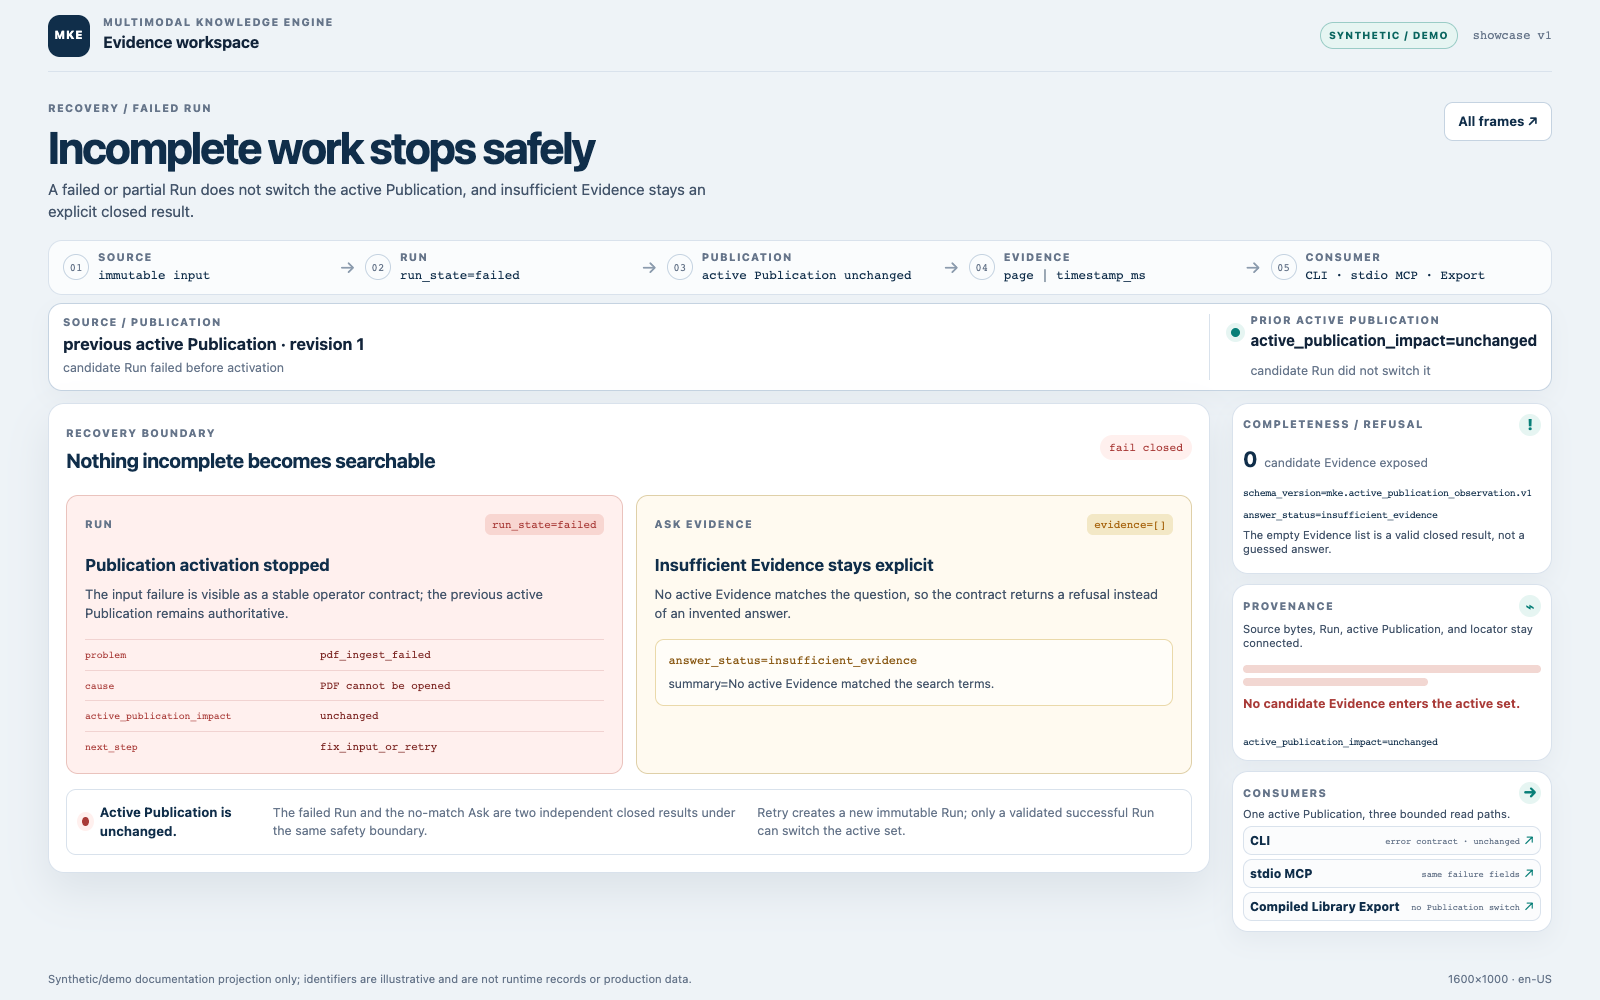
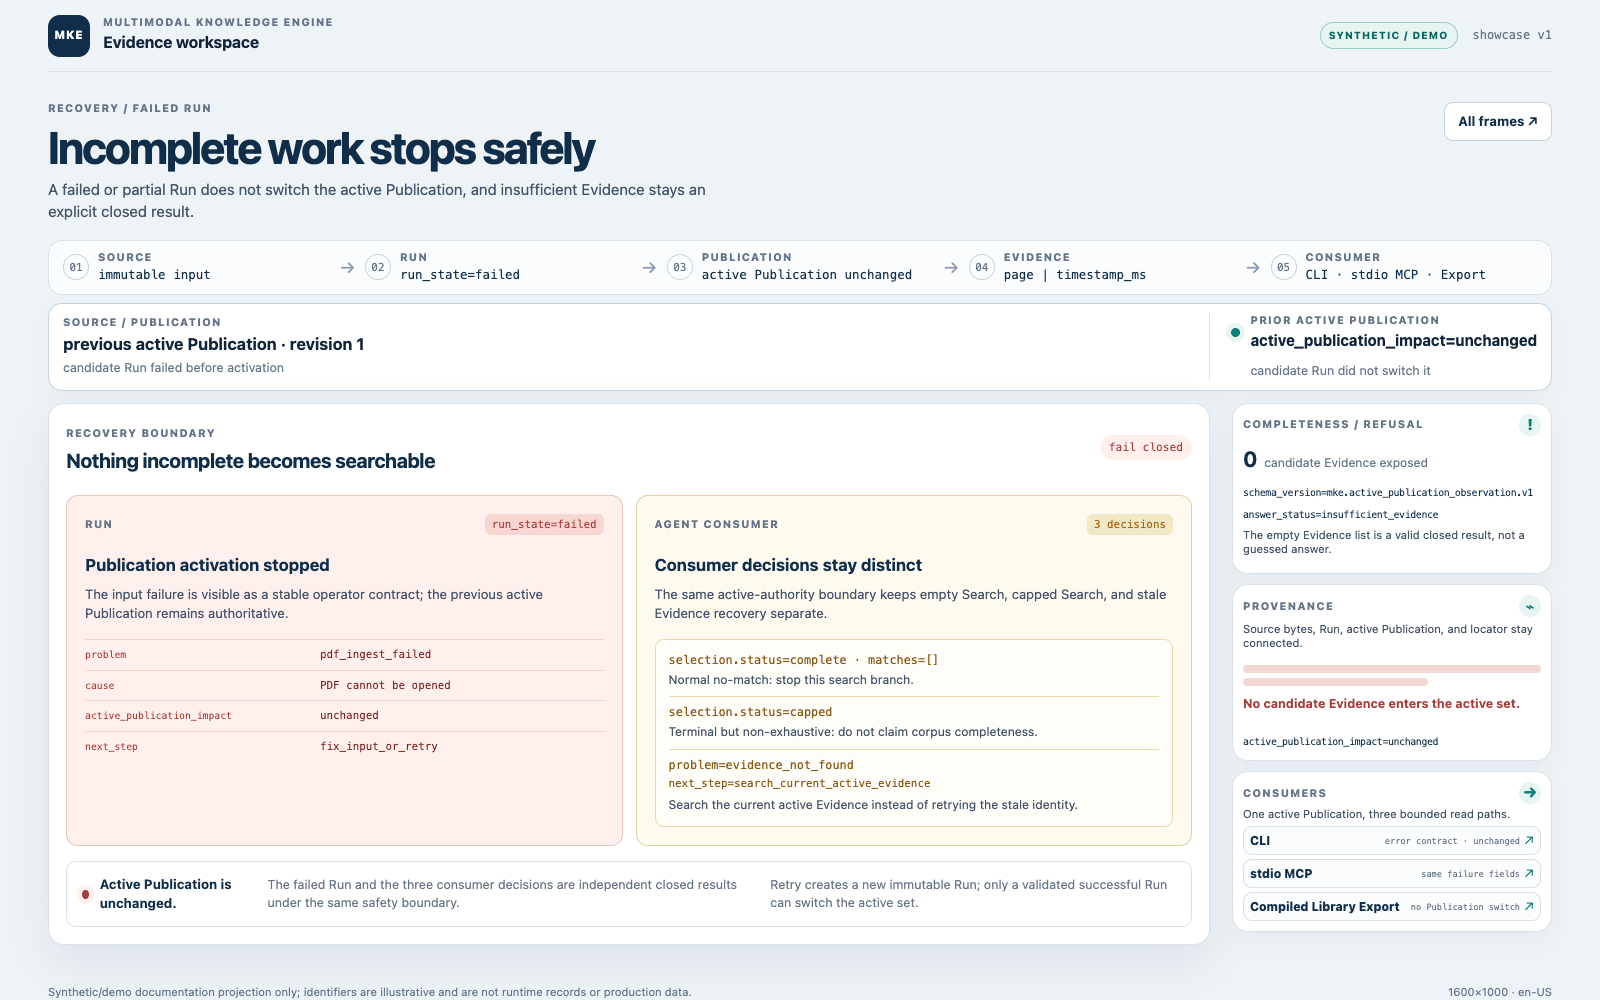
docs(showcase): align MCP recovery branches (#116)
## 结果

- 更新现有 Evidence workspace 的 recovery frame，清楚区分三种已证明的 Agent consumer
结果：active exhaustive no-match、capped non-exhaustive selection、stale
Evidence recovery。
- README 中英首层同步说明同一 contract boundary 下的停止、非穷尽与恢复判断。
- 仅重捕获 recovery PNG，并用 source-freeze commit、source tree digest、PNG
SHA-256 和固定 1600x1000 viewport 更新既有 provenance manifest。

## 已完成验收

- [x] Authority full-diff review：reviewed HEAD
516337f4278607dd5ee5c8b1c291e6a8d981346a，无 finding。
- [x] `UV_OFFLINE=1 uv run pytest -q`：4116 passed，14 skipped，5 warnings。
- [x] `uv run ruff check .`、`uv run pyright`、`uv lock --check`、`uv
build` 均通过。
- [x] `uv run mke proof run`：8/8 passed；`uv run mke demo --verify` 通过。
- [x] `UV_OFFLINE=1 uv run python scripts/generate_evidence_workspace.py
--verify` 通过。
- [x] owning showcase/MCP completeness suites：37 passed，5 warnings。
- [x] recovery PNG：1600x1000，SHA-256
`2b6717716e6dcc293d0700fe191818cbe9ff35b2c2a82a8e2b69a432c98c6128`；overview/search
PNG 字节未变。

## Merge gates

- [x] exact reviewed HEAD 的 9 项 hosted checks 全部成功。
- [ ] squash merge 后 reviewed tree 与 merge tree 完全一致。
- [ ] exact merge SHA 的 default-branch workflows 成功。

## Scope

本 PR 只修改 README、既有静态 Evidence workspace generator、recovery
HTML/CSS/PNG/manifest 与 owning tests。没有修改 `src/mke/**`、MCP
schema、runtime、retrieval、fixture、依赖/lock、Python 支持矩阵、provider、版本、tag 或
Release。

`normal_no_match` 只作为 installed-consumer proof observation；公开图文没有把它描述为
runtime 或 aggregate-v1 字段。

diff --git a/docs/evidence-workspace/evidence-insufficient-recovery.html b/docs/evidence-workspace/evidence-insufficient-recovery.html
@@ -95,19 +95,30 @@
       </div>
     </article>
     <article class="refusal-card">
-      <div class="card-topline"><span class="eyebrow">Ask Evidence</span><span class="run-state run-state-muted">evidence=[]</span></div>
-      <h3>Insufficient Evidence stays explicit</h3>
-      <p class="failure-lede">No active Evidence matches the question, so the contract returns a refusal instead of an invented answer.</p>
-      <div class="ask-result">
-        <strong>answer_status=insufficient_evidence</strong>
-        <span>summary=No active Evidence matched the search terms.</span>
+      <div class="card-topline"><span class="eyebrow">Agent consumer</span><span class="run-state run-state-muted">3 decisions</span></div>
+      <h3>Consumer decisions stay distinct</h3>
+      <p class="failure-lede">The same active-authority boundary keeps empty Search, capped Search, and stale Evidence recovery separate.</p>
+      <div class="ask-result recovery-decisions">
+        <div class="recovery-decision">
+          <strong>selection.status=complete · matches=[]</strong>
+          <span>Normal no-match: stop this search branch.</span>
+        </div>
+        <div class="recovery-decision">
+          <strong>selection.status=capped</strong>
+          <span>Terminal but non-exhaustive: do not claim corpus completeness.</span>
+        </div>
+        <div class="recovery-decision">
+          <strong>problem=evidence_not_found</strong>
+          <code>next_step=search_current_active_evidence</code>
+          <span>Search the current active Evidence instead of retrying the stale identity.</span>
+        </div>
       </div>
     </article>
   </div>
   <div class="recovery-strip">
     <span class="status-dot status-dot-danger" aria-hidden="true"></span>
     <strong>Active Publication is unchanged.</strong>
-    <span class="muted">The failed Run and the no-match Ask are two independent closed results under the same safety boundary.</span>
+    <span class="muted">The failed Run and the three consumer decisions are independent closed results under the same safety boundary.</span>
     <span class="muted">Retry creates a new immutable Run; only a validated successful Run can switch the active set.</span>
   </div>
 </section>

diff --git a/docs/evidence-workspace/showcase.css b/docs/evidence-workspace/showcase.css
@@ -319,6 +319,11 @@ code {
 .ask-result { display: grid; gap: 8px; padding: 13px; border: 1px solid #ead9aa; border-radius: 9px; background: #fffdf8; }
 .ask-result strong { color: #8a5a16; font: 0.74rem "SFMono-Regular", Consolas, monospace; overflow-wrap: anywhere; }
 .ask-result span { color: var(--ink-soft); font-size: 0.76rem; }
+.recovery-decisions { gap: 0; }
+.recovery-decision { display: grid; gap: 4px; padding: 8px 0; border-top: 1px solid #ead9aa; }
+.recovery-decision:first-child { padding-top: 0; border-top: 0; }
+.recovery-decision:last-child { padding-bottom: 0; }
+.recovery-decision code { color: #8a5a16; font-size: 0.68rem; overflow-wrap: anywhere; }
 .recovery-strip { display: flex; align-items: center; gap: 11px; margin-top: 15px; padding: 13px 15px; border: 1px solid var(--line); border-radius: 10px; background: #fff; }
 .recovery-strip strong { color: var(--navy); font-size: 0.82rem; }
 

diff --git a/scripts/generate_evidence_workspace.py b/scripts/generate_evidence_workspace.py
@@ -460,19 +460,30 @@ def _failure_surface() -> str:
       </div>
     </article>
     <article class="refusal-card">
-      <div class="card-topline"><span class="eyebrow">Ask Evidence</span><span class="run-state run-state-muted">evidence=[]</span></div>
-      <h3>Insufficient Evidence stays explicit</h3>
-      <p class="failure-lede">No active Evidence matches the question, so the contract returns a refusal instead of an invented answer.</p>
-      <div class="ask-result">
-        <strong>answer_status=insufficient_evidence</strong>
-        <span>summary=No active Evidence matched the search terms.</span>
+      <div class="card-topline"><span class="eyebrow">Agent consumer</span><span class="run-state run-state-muted">3 decisions</span></div>
+      <h3>Consumer decisions stay distinct</h3>
+      <p class="failure-lede">The same active-authority boundary keeps empty Search, capped Search, and stale Evidence recovery separate.</p>
+      <div class="ask-result recovery-decisions">
+        <div class="recovery-decision">
+          <strong>selection.status=complete · matches=[]</strong>
+          <span>Normal no-match: stop this search branch.</span>
+        </div>
+        <div class="recovery-decision">
+          <strong>selection.status=capped</strong>
+          <span>Terminal but non-exhaustive: do not claim corpus completeness.</span>
+        </div>
+        <div class="recovery-decision">
+          <strong>problem=evidence_not_found</strong>
+          <code>next_step=search_current_active_evidence</code>
+          <span>Search the current active Evidence instead of retrying the stale identity.</span>
+        </div>
       </div>
     </article>
   </div>
   <div class="recovery-strip">
     <span class="status-dot status-dot-danger" aria-hidden="true"></span>
     <strong>Active Publication is unchanged.</strong>
-    <span class="muted">The failed Run and the no-match Ask are two independent closed results under the same safety boundary.</span>
+    <span class="muted">The failed Run and the three consumer decisions are independent closed results under the same safety boundary.</span>
     <span class="muted">Retry creates a new immutable Run; only a validated successful Run can switch the active set.</span>
   </div>
 </section>
@@ -894,6 +905,11 @@ code {
 .ask-result { display: grid; gap: 8px; padding: 13px; border: 1px solid #ead9aa; border-radius: 9px; background: #fffdf8; }
 .ask-result strong { color: #8a5a16; font: 0.74rem "SFMono-Regular", Consolas, monospace; overflow-wrap: anywhere; }
 .ask-result span { color: var(--ink-soft); font-size: 0.76rem; }
+.recovery-decisions { gap: 0; }
+.recovery-decision { display: grid; gap: 4px; padding: 8px 0; border-top: 1px solid #ead9aa; }
+.recovery-decision:first-child { padding-top: 0; border-top: 0; }
+.recovery-decision:last-child { padding-bottom: 0; }
+.recovery-decision code { color: #8a5a16; font-size: 0.68rem; overflow-wrap: anywhere; }
 .recovery-strip { display: flex; align-items: center; gap: 11px; margin-top: 15px; padding: 13px 15px; border: 1px solid var(--line); border-radius: 10px; background: #fff; }
 .recovery-strip strong { color: var(--navy); font-size: 0.82rem; }
 

diff --git a/tests/scripts/test_evidence_showcase.py b/tests/scripts/test_evidence_showcase.py
@@ -102,6 +102,45 @@ def test_search_frame_has_one_visible_result_and_matching_provenance() -> None:
[1 lines of base64/hex data omitted]
 
 
+def test_recovery_frame_distinguishes_agent_consumer_branches() -> None:
+    markup = (SHOWCASE / "evidence-insufficient-recovery.html").read_text(encoding="utf-8")
+
+    for marker in (
+        "selection.status=complete",
+        "matches=[]",
+        "Normal no-match",
+        "selection.status=capped",
+        "non-exhaustive",
+        "problem=evidence_not_found",
+        "next_step=search_current_active_evidence",
+        "active_publication_impact=unchanged",
+        "run_state=failed",
+    ):
+        assert marker in markup
+    assert "normal_no_match" not in markup
+
+
+def test_readmes_surface_mcp_consumer_branch_decisions() -> None:
+    proof_link = "./docs/how-to/run-mcp-context-completeness-proof.md"
+    for name, detail_heading in (
+        ("README.md", "## Detailed contracts and history"),
+        ("README_CN.md", "## Detailed contracts and history / 详细契约与历史"),
+    ):
+        text = (ROOT / name).read_text(encoding="utf-8")
+        first_layer = text[: text.index(detail_heading)]
+        assert len(re.findall(rf"\[[^\]]+\]\({re.escape(proof_link)}\)", first_layer)) == 1
+        for literal in (
+            "selection.status=complete",
+            "selection.status=capped",
+            "evidence_not_found",
+            "search_current_active_evidence",
+        ):
+            assert literal in first_layer
+        if name == "README_CN.md":
+            assert "正常无匹配" in first_layer
+            assert "非穷尽" in first_layer
+
+
 def test_readmes_embed_canonical_frames_once_in_approved_order() -> None:
     expected_order = (
         "./docs/evidence-workspace/evidence-workspace-overview.png",
@@ -112,13 +151,13 @@ def test_readmes_embed_canonical_frames_once_in_approved_order() -> None:
         (
             "README.md",
             "## Detailed contracts and history",
-            "### Three engineering judgments",
+            "### Four engineering judgments",
             "## Quick Verify",
         ),
         (
             "README_CN.md",
             "## Detailed contracts and history / 详细契约与历史",
-            "### 三条工程判断",
+            "### 四条工程判断",
             "## 快速验证",
         ),
     ):

diff --git a/README_CN.md b/README_CN.md
@@ -32,13 +32,19 @@ Multimodal Knowledge Engine 是一个本地优先、可由 Agent 调用的 `Evid
 
 ![Evidence insufficient recovery](./docs/evidence-workspace/evidence-insufficient-recovery.png)
 
-### 三条工程判断
+### 四条工程判断
 
 1. 原始资料不是答案：`Run` 必须先验证候选输出，`Publication` 才能被消费。
 2. `Provenance` 是结果的一部分：`mke.evidence_ref.v1` 携带 `Source`、content fingerprint、
    `active Publication` revision、`Run` 和 page 或 `timestamp_ms` locator。
 3. 不完整工作必须安全收口：失败或部分处理保持 `active_publication_impact=unchanged`，无匹配
    `Ask` 返回 `insufficient_evidence`。
+4. Agent consumer 的结果不能压成同一种失败：active 且穷尽的空结果以
+   `selection.status=complete` 和 `matches=[]` 表示正常无匹配，应停止当前 Search 分支；
+   `selection.status=capped` 表示已终止但并非穷尽，不能声称覆盖整个语料；过期 Evidence 返回
+   `problem=evidence_not_found`，下一步是 `next_step=search_current_active_evidence`，应重新搜索
+   当前 active Evidence，而不是重试旧身份。这些是现有契约边界上的 consumer 决策，不是
+   aggregate-v1 字段。参见 [MCP 上下文完整性证明](./docs/how-to/run-mcp-context-completeness-proof.md)。
 
 ## 快速验证
 

diff --git a/README.md b/README.md
@@ -32,13 +32,19 @@ illustrative, while contract fields and lifecycle boundaries come from the curre
 
 ![Evidence insufficient recovery](./docs/evidence-workspace/evidence-insufficient-recovery.png)
 
-### Three engineering judgments
+### Four engineering judgments
 
 1. Raw material is not an answer: a Run must validate candidate output before a Publication can be consumed.
 2. Provenance is part of the result: `mke.evidence_ref.v1` carries Source, content fingerprint,
    active Publication revision, Run, and a page or `timestamp_ms` locator.
 3. Incomplete work fails closed: failed or partial processing leaves
    `active_publication_impact=unchanged`, and no-match Ask returns `insufficient_evidence`.
+4. Agent consumer outcomes stay distinct: an active exhaustive empty result with
+   `selection.status=complete` and `matches=[]` is a normal no-match that stops this search branch;
+   `selection.status=capped` is terminal but non-exhaustive; stale Evidence returns
+   `problem=evidence_not_found` and points to `next_step=search_current_active_evidence`. These are
+   consumer decisions at the existing contract boundary, not aggregate-v1 fields. See the [MCP context
+   completeness proof](./docs/how-to/run-mcp-context-completeness-proof.md).
 
 ## Quick Verify
 
